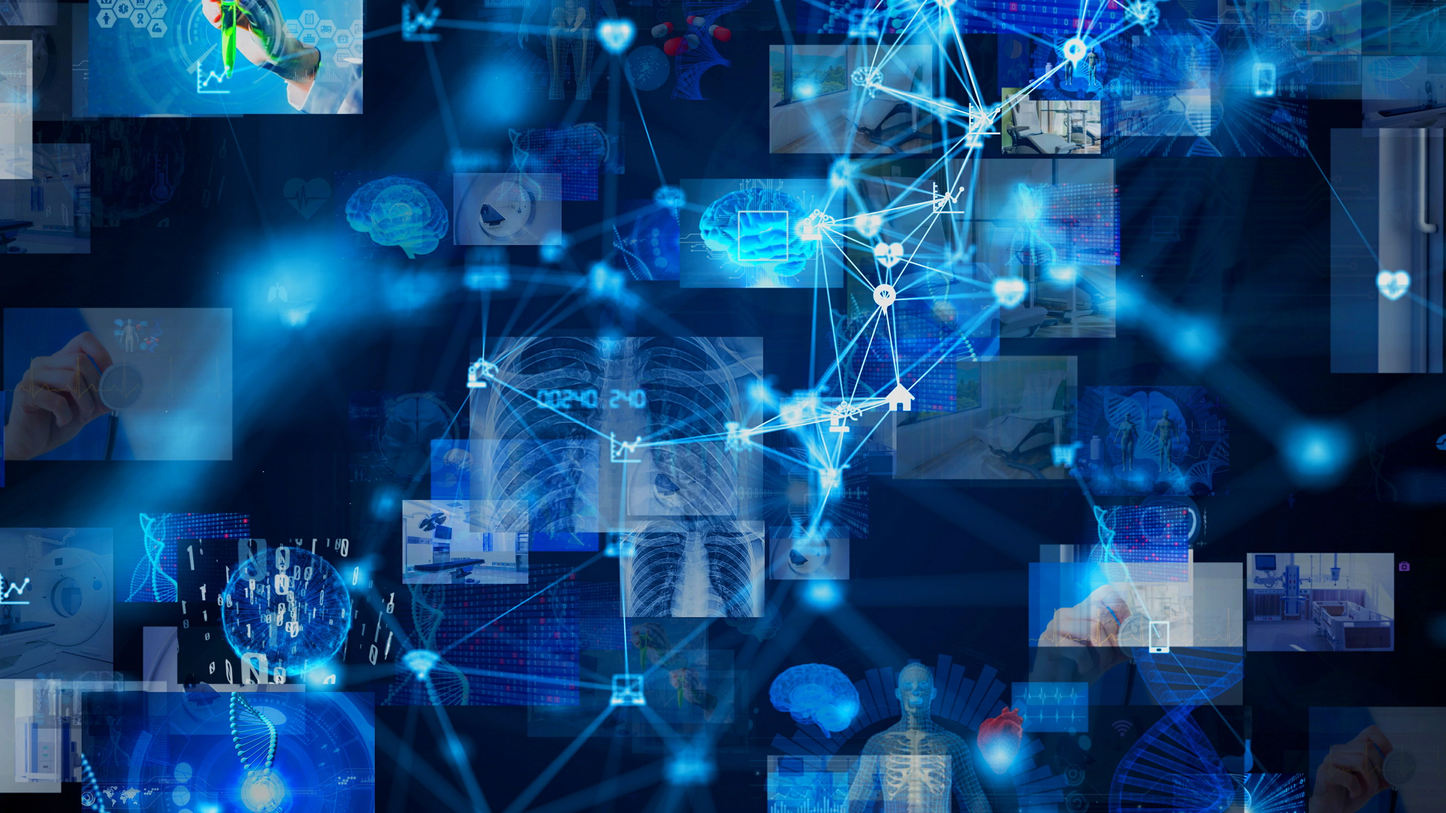
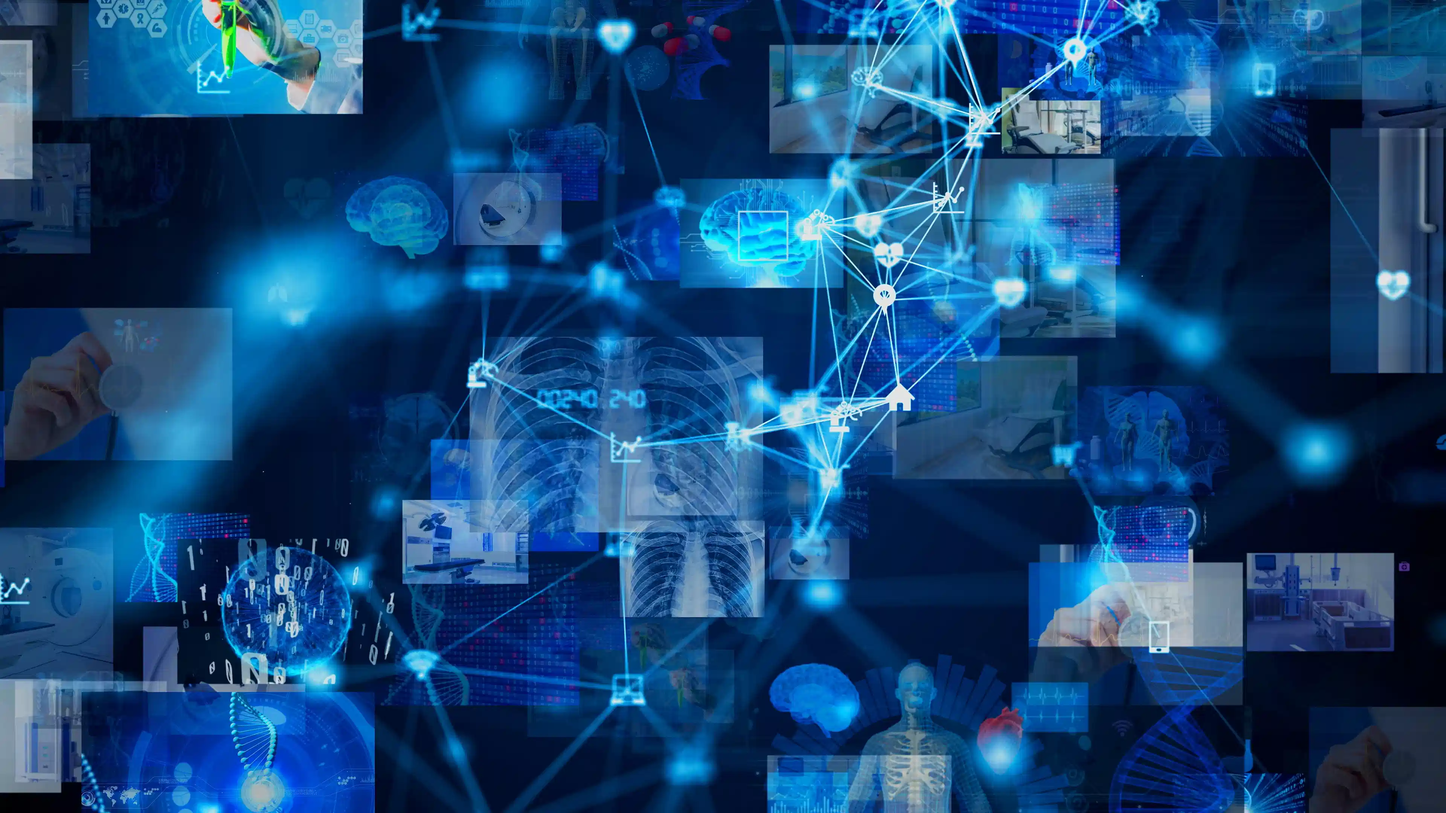
optimize

Changed region(s): [[0.1562, 0.8995, 0.1875, 0.9306]]

diff --git a/serums.php b/serums.php
@@ -178,7 +178,7 @@
 										<!-- 图片部分 -->
 										<div style="margin-right: 30px; width: 200px; height: 200px; border: 2px solid #ddd; display: flex; justify-content: center; align-items: center; overflow: hidden;">
 											<a >
-												<img src="images/products/new-product1-side.jpg" class="rounded" alt="" style="max-width: 100%; height: 100%;">
+												<img src="images/products/new-product1-side.webp" class="rounded" alt="" style="max-width: 100%; height: 100%;">
 											</a>
 										</div>
 										<!-- 文字内容部分 -->
@@ -210,7 +210,7 @@
 										<!-- 图片部分 -->
 										<div style="margin-right: 30px; width: 200px; height: 200px; border: 2px solid #ddd; display: flex; justify-content: center; align-items: center; overflow: hidden;">
 											<a >
-												<img src="images/products/new-product2-side.jpg" class="rounded" alt="" style="max-width: 100%; height: 100%;">
+												<img src="images/products/new-product2-side.webp" class="rounded" alt="" style="max-width: 100%; height: 100%;">
 											</a>
 										</div>
 										<!-- 文字内容部分 -->
@@ -242,7 +242,7 @@
 										<!-- 图片部分 -->
 										<div style="margin-right: 30px; width: 200px; height: 200px; border: 2px solid #ddd; display: flex; justify-content: center; align-items: center; overflow: hidden;">
 											<a >
-												<img src="images/products/new-product3-side.jpg" class="rounded" alt="" style="max-width: 100%; height: 100%;">
+												<img src="images/products/new-product3-side.webp" class="rounded" alt="" style="max-width: 100%; height: 100%;">
 											</a>
 										</div>
 										<!-- 文字内容部分 -->
@@ -274,7 +274,7 @@
 										<!-- 图片部分 -->
 										<div style="margin-right: 30px; width: 200px; height: 200px; border: 2px solid #ddd; display: flex; justify-content: center; align-items: center; overflow: hidden;">
 											<a >
-												<img src="images/serum-product3.jpg" class="rounded" alt="" style="max-width: 100%; height: 100%;">
+												<img src="images/serum-product3.webp" class="rounded" alt="" style="max-width: 100%; height: 100%;">
 											</a>
 										</div>
 										<!-- 文字内容部分 -->
@@ -306,7 +306,7 @@
 										<!-- 图片部分 -->
 										<div style="margin-right: 30px; width: 200px; height: 200px; border: 2px solid #ddd; display: flex; justify-content: center; align-items: center; overflow: hidden;">
 											<a >
-												<img src="images/products/new-product4-side.jpg" class="rounded" alt="" style="max-width: 100%; height: 100%;">
+												<img src="images/products/new-product4-side.webp" class="rounded" alt="" style="max-width: 100%; height: 100%;">
 											</a>
 										</div>
 										<!-- 文字内容部分 -->

diff --git a/index.php b/index.php
@@ -509,7 +509,7 @@
 						>
 							<div class="" >
 								<div class="dlab-thum dlab-img-overlay2 primary dlab-img-effect zoom">
-									<img src="images/products/new-product1.jpg" loading="lazy" alt="" >
+									<img src="images/products/new-product1.webp" loading="lazy" alt="" >
 								</div>
 								<div class="text-center">
 									<h5 class="text-black" style="font-size: 1rem; font-weight: 600; min-height: 36px; margin-top: 10px;">Front Biomed特级进口胎牛血清 (FBS, Optimum)</h5>
@@ -521,7 +521,7 @@
 						<div class="col-lg-3 col-md-6 col-sm-6 wow bounceInUp" data-wow-duration="2s" data-wow-delay="0.3s" style=" box-shadow: 0 4px 8px rgba(0, 0, 0, 0.1);  transition: transform 0.3s ease, box-shadow 0.3s ease; ">
 							<div class="product-card dlab-post-media" >
 								<div class="dlab-thum dlab-img-overlay2 primary dlab-img-effect zoom">
-									<img src="images/products/new-product2.jpg" loading="lazy" alt="" >
+									<img src="images/products/new-product2.webp" loading="lazy" alt="" >
 								</div>
 								<div class="text-center">
 									<h5 class="text-black" style="font-size: 1rem; font-weight: 600; min-height: 36px; margin-top: 10px;">Front Biomed超优级胎牛血清 (FBS, Exceptional )</h5>
@@ -532,7 +532,7 @@
 						<div class="col-lg-3 col-md-6 col-sm-6 wow bounceInUp" data-wow-duration="2s" data-wow-delay="0.3s" style=" box-shadow: 0 4px 8px rgba(0, 0, 0, 0.1);  transition: transform 0.3s ease, box-shadow 0.3s ease; ">
 							<div class="product-card dlab-post-media" >
 								<div class="dlab-thum dlab-img-overlay2 primary dlab-img-effect zoom">
-									<img src="images/products/new-product3.jpg" loading="lazy" alt="" >
+									<img src="images/products/new-product3.webp" loading="lazy" alt="" >
 								</div>
 								<div class="text-center">
 									<h5 class="text-black" style="font-size: 1rem; font-weight: 600; min-height: 36px; margin-top: 10px;">Front Biomed特级国产胎牛血清 (FBS, Optimum)</h5>
@@ -544,7 +544,7 @@
 						<div class="col-lg-3 col-md-6 col-sm-6 wow bounceInUp" data-wow-duration="2s" data-wow-delay="0.3s" style=" box-shadow: 0 4px 8px rgba(0, 0, 0, 0.1);  transition: transform 0.3s ease, box-shadow 0.3s ease; ">
 							<div class="product-card dlab-post-media" >
 								<div class="dlab-thum dlab-img-overlay2 primary dlab-img-effect zoom">
-									<img src="images/products/new-product4.jpg" loading="lazy" alt="" >
+									<img src="images/products/new-product4.webp" loading="lazy" alt="" >
 								</div>
 								<div class="text-center">
 									<h5 class="text-black" style="font-size: 1rem; font-weight: 600; min-height: 36px; margin-top: 10px;">Front Biomed优级胎牛血清 (FBS, Premium)</h5>

diff --git a/product-center.php b/product-center.php
@@ -92,7 +92,7 @@
 							<li class="web design card-container col-lg-6 col-md-6 col-sm-6 p-a0">
 								<div class="dlab-box dlab-gallery-box">
 									<div class="dlab-media">
-										<a href="serums.php"><img class="custom-img" src="images/blood-serum.jpg" alt="" /></a>
+										<a href="serums.php"><img class="custom-img" src="images/blood-serum.webp" alt="" /></a>
 									</div>
 									<a href="serums.php"><div class="sort-title clearfix text-center hover-orange-text">
 										<h3 style="margin-top: 20px;">血清</h3>
@@ -104,7 +104,7 @@
 								<div class="dlab-box dlab-gallery-box">
 									<div class="dlab-media"> 
 										<a href="#"> 
-											<img class="custom-img" src="images/cell-culture-medium.jpg" alt="" /> 
+											<img class="custom-img" src="images/cell-culture-medium.webp" alt="" /> 
 										</a>
 									</div>
 									
